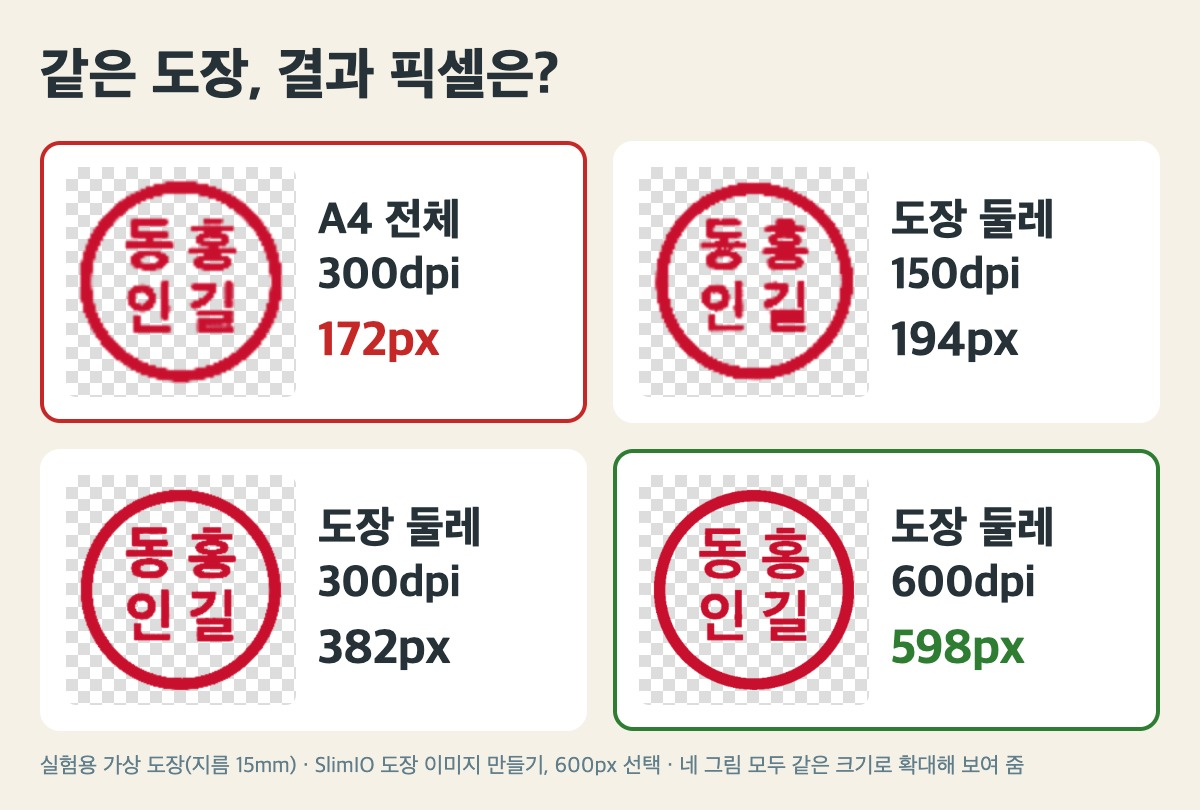
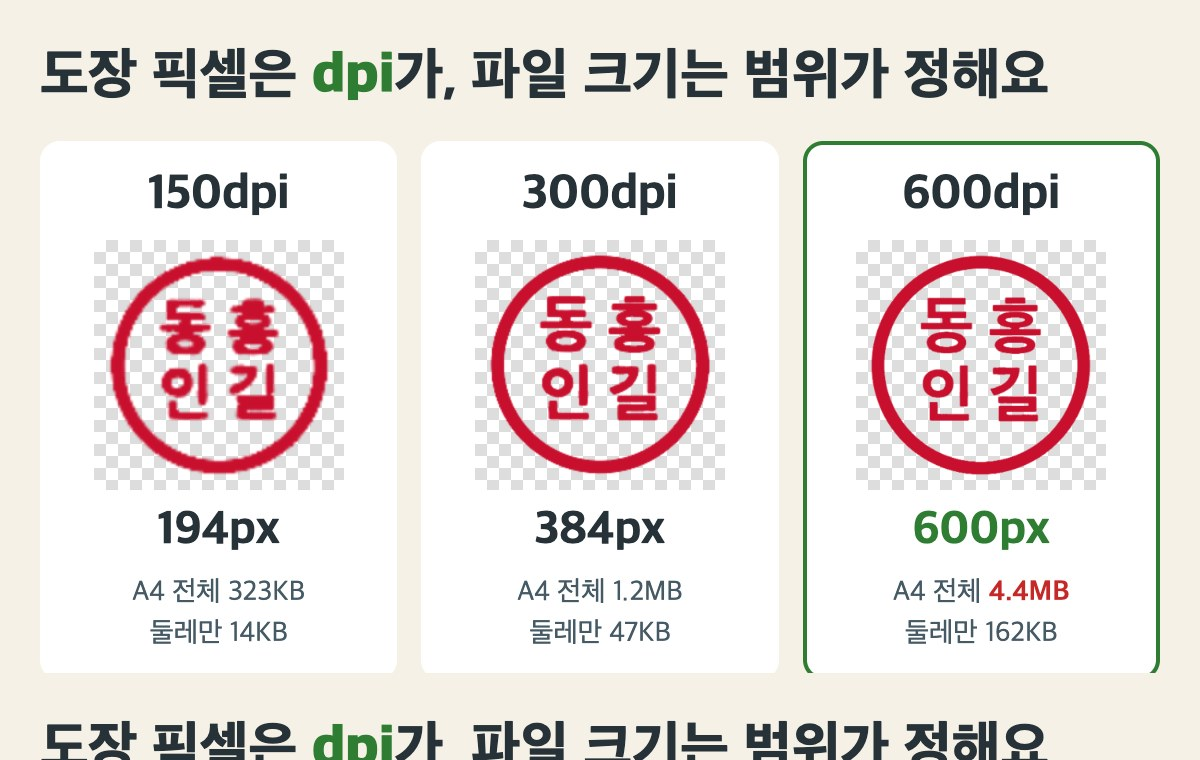
Blog #99/#100: re-measured on the live site after the 11/25 stamp-tool deploy (v=ca62f576)
#99: 1000px now 1000x999 (was 752), sizes updated, mentions the automatic photo-colour fallback.
#100: whole-A4 scans now give the same stamp pixels as stamp-only scans at the same dpi
(194/384/600 px), so the article now says dpi sets sharpness and scan area sets file size
(4.4MB vs 161.9KB at 600dpi). New title and dpi picture. Inkam law article 1 re-checked 11/25.
Schedule: #99 11/27 13:00, #100 11/28 13:00 (ondine schedules).

diff --git a/marketing/naver/100-stamp-scan.html b/marketing/naver/100-stamp-scan.html
@@ -1,6 +1,6 @@
 <!--
 네이버 블로그 글 #100 — 도장 스캔 뜨는 법: 해상도(dpi)·스캔 범위·컬러/흑백, 스캐너가 없을 때 휴대폰 스캔, 스캔본 배경 지우기와 문서에 넣기 (blog.naver.com/todayz777)
-제목: 도장 스캔 뜨는 법: 300·600dpi 차이, A4 통째로 뜨면 흐린 이유, 컬러로 떠야 하는 까닭 (휴대폰 스캔까지)
+제목: 도장 스캔 뜨는 법: 300·600dpi 차이, A4 통째로 vs 도장 둘레만 실험, 컬러로 떠야 하는 까닭 (휴대폰 스캔까지)
 태그: 도장스캔, 도장스캔뜨기, 도장스캔본뜨는법, 도장스캔본, 도장스캔해서넣는법, 도장스캔후첨부방법, 도장스캔하는법, 인감스캔하는법, 스캔해상도300600차이, 휴대폰스캔하기
 근거: (모두 2026-11-24 curl로 원문 읽음, 원문 텍스트: scratchpad blog99/100/src/)
  · Apple 지원 「iPhone 또는 iPad에서 문서를 스캔하는 방법」(support.apple.com/ko-kr/108963 — 옛 HT210336이 여기로 옴) — 메모 앱: "첨부 버튼을 탭한 다음 '문서 스캔'을 탭합니다", "iOS 26에서는 플래시나 이미지 필터와 같은 옵션을 선택할 수도 있습니다", "모서리를 드래그하여 스캔본 크기를 페이지에 맞춰 조절하고 '스캔 항목 유지'를 탭합니다" / 파일 앱: "더 보기 버튼을 탭합니다", "'문서 스캔'을 탭합니다", "위치를 선택한 다음 '저장'을 탭합니다". 저장 형식(JPG/PDF)은 이 문서에 없음 → 글에 '안내에 적혀 있지 않아요'
@@ -10,30 +10,30 @@
  · Microsoft 지원 「텍스트 줄 바꿈 및 Word 그림 이동」(support.microsoft.com/ko-kr/word/wrap-text-and-move-pictures-in-word) — "레이아웃 옵션", "텍스트 앞" (한 줄만 씀)
  · Google 드라이브 고객센터 「Google Drive로 문서 스캔하기」(support.google.com/drive/answer/3145835?hl=ko, Android·iPhone 판 각각) — Android "오른쪽 하단에서 카메라를 탭", iPhone "추가를 탭한 다음 '스캔' 또는 카메라 아이콘", "색상 조정 또는 회색 톤 이미지 만들기: 필터를 탭합니다", Android만 "스캔한 서류를 특정 형식으로 저장하려면 .pdf 또는 .jpg를 선택합니다"(iPhone 판엔 형식 선택 문장 없음), "Google Drive 웹 버전에서는 이 기능을 제공하지 않습니다", AI 번역 고지 있음
  · 삼성전자서비스 「[삼성 스마트폰] 갤럭시, 카메라 촬영 시 문서 스캔 사용 방법이 궁금해요.」(samsungsvc.co.kr/solution/23374, 날짜 2026-11-02) — "문서를 비추면 테두리가 자동으로 감지되어 스캔 버튼이 나타납니다", 설정 "카메라 앱을 실행한 후 퀵 컨트롤로 진입하여 설정 … 스캔을 누른 후 문서 스캔을 활성화", "모델 및 적용된 소프트웨어, 앱 버전 등에 따라 다를 수 있습니다"
- · 인감증명법 제1조(법률 제14286호, 시행 2017.12.3.) "행정청이 현재 신고되어 있는 출원자의 인감(印鑑)을 증명함으로써" — 이 문구는 #97이 11/21 law.go.kr에서 확인한 것. 11/24에는 법령 머리글(시행일·법률 번호)만 다시 확인했고 본문은 스크립트로 불러와져 못 읽음 → 메인 세션 재확인 필요. 형법 제239조①(#95·#96·#97이 11/21 확인)
- · 도구 화면 문구는 실제 pdfslimio.com/ko/stamp-image.html(11/24 curl, 배포된 stamp-image.js가 저장소와 같음 확인): 탭 '📷 도장 사진', '도장 찍은 사진 고르기', 인주 색 '선명한 빨강 — 빨간 인주만 남기기'·'사진 색 그대로'·'검은색', "선명한 빨강을 고르면 빨간 도장 주변의 인쇄 글씨, 펜 선, 그림자도 같이 지워져요.", 크기 '600px — 인쇄해도 선명'·'1000px — 크게', '도장 이미지 만들기', '↓ 도장 다운로드 (PNG)', '🔴 이 도장을 PDF에 찍기 →', 파일 고르기 accept="image/*"(PDF는 못 넣음). 작업 크기 긴 변 1600px·결과는 최대 2배(stamp-image.js MAX_SIDE·sized())
+ · 인감증명법 제1조(법률 제14286호, 시행 2017.12.3.) "행정청이 현재 신고되어 있는 출원자의 인감(印鑑)을 증명함으로써" — 이 문구는 #97이 11/21 law.go.kr에서 확인한 것. 11/25 law.go.kr 본문 다시 읽음: 제1조 「이 법은 행정청이 현재 신고되어 있는 출원자의 인감(印鑑)을 증명함으로써 국민의 편의를 도모함을 목적으로 한다.」 그대로 맞음. 형법 제239조①(#95·#96·#97이 11/21 확인)
+ · 도구 화면 문구는 실제 pdfslimio.com/ko/stamp-image.html(11/24 curl, 배포된 stamp-image.js가 저장소와 같음 확인): 탭 '📷 도장 사진', '도장 찍은 사진 고르기', 인주 색 '선명한 빨강 — 빨간 인주만 남기기'·'사진 색 그대로'·'검은색', "선명한 빨강을 고르면 빨간 도장 주변의 인쇄 글씨, 펜 선, 그림자도 같이 지워져요.", 크기 '600px — 인쇄해도 선명'·'1000px — 크게', '도장 이미지 만들기', '↓ 도장 다운로드 (PNG)', '🔴 이 도장을 PDF에 찍기 →', 파일 고르기 accept="image/*"(PDF는 못 넣음). 작업 크기 긴 변 1600px로 도장을 찾은 뒤 원본에서 둘레를 다시 잘라 처리(11/25 배포 7a3c093), 결과는 최대 2배(stamp-image.js MAX_SIDE·sized())
  확인 못 한 것(글에 그렇게 씀): 도장 스캔에 맞는 dpi를 정한 공식 기준(찾지 못함 — 숫자는 25.4mm=1인치 계산과 실험으로만), 아이폰 메모·파일 앱 스캔본의 저장 형식, Google Drive iPhone 판의 JPG 저장, 갤럭시 문서 스캔의 저장 형식·해상도, OneDrive 스캔의 저장 형식
-수요: 네이버 자동완성(ac.py, 2026-11-24) '도장 스캔' → 도장 스캔 뜨기·스캔해서 넣는법·스캔본 뜨는법·스캔본·스캔 후 첨부 방법·스캔하기·스캔 방법·스캔 하는 법·스캔 뜨는 법, '인감 스캔' → 인감 스캔하는법·인감 스캔 하는 방법, '스캔 해상도' → 300 600 차이·높이는 법·차이·낮추는법·설정 방법, '스캔 dpi' → 스캔dpi비교, '휴대폰 스캔' → 휴대폰 스캔하기·방법·pdf·뜨는법·스캔용량, '아이폰 스캔'·'갤럭시 스캔'(스캔기능·pdf·화질). top.py(11/24) '도장 스캔': chady1·altptmzl3·edenheyum_·newojh1·info_writer·yirini — 모두 전자도장 앱·사이트로 '만드는' 글, '도장 스캔해서 넣는법': 우리 #12가 1위, '도장 스캔 후 첨부 방법': phoneharu·notei0410·kjjjay·okl112·ppsun717(서류 전체 휴대폰 스캔). 상위 글 2편(chady1·altptmzl3) 읽음 — 스캔 해상도·스캔 범위·컬러/흑백을 다룬 글 없음, 공식 도움말 인용 없음, 한 글은 관공서·은행·부동산 위임장에도 앱 도장을 쓰는 것처럼 소개 → 우리 글 차별점: dpi 계산·A4 통째 vs 도장 둘레 실험·컬러 이유·공식 스캔 메뉴·인감 안 됨
+수요: 네이버 자동완성(ac.py, 2026-11-24) '도장 스캔' → 도장 스캔 뜨기·스캔해서 넣는법·스캔본 뜨는법·스캔본·스캔 후 첨부 방법·스캔하기·스캔 방법·스캔 하는 법·스캔 뜨는 법, '인감 스캔' → 인감 스캔하는법·인감 스캔 하는 방법, '스캔 해상도' → 300 600 차이·높이는 법·차이·낮추는법·설정 방법, '스캔 dpi' → 스캔dpi비교, '휴대폰 스캔' → 휴대폰 스캔하기·방법·pdf·뜨는법·스캔용량, '아이폰 스캔'·'갤럭시 스캔'(스캔기능·pdf·화질). top.py(11/24) '도장 스캔': chady1·altptmzl3·edenheyum_·newojh1·info_writer·yirini — 모두 전자도장 앱·사이트로 '만드는' 글, '도장 스캔해서 넣는법': 우리 #12가 1위, '도장 스캔 후 첨부 방법': phoneharu·notei0410·kjjjay·okl112·ppsun717(서류 전체 휴대폰 스캔). 상위 글 2편(chady1·altptmzl3) 읽음 — 스캔 해상도·스캔 범위·컬러/흑백을 다룬 글 없음, 공식 도움말 인용 없음, 한 글은 관공서·은행·부동산 위임장에도 앱 도장을 쓰는 것처럼 소개 → 우리 글 차별점: dpi 계산·A4 통째 vs 도장 둘레 실험(픽셀은 dpi, 용량은 범위)·컬러 이유·공식 스캔 메뉴·인감 안 됨
 겹침 점검: #12(PDF에 도장 넣기·흰 배경 지우는 이유·사진 찍는 요령·효력 — 이 글은 스캔본 품질만, PDF 순서·효력 설명 없음, 링크만), #17(서명 이미지 — 겹치는 내용 없음), #95(엑셀)·#96(한글 넣기 — 링크만)·#97(전자도장·인감 법 조문 — 이 글은 인감 한 단락만, 문장 새로 씀), 사이트 가이드 pdf-stamp-seal('300dpi 스캔도 괜찮아요' 한 줄뿐 — 이 글은 계산·실험으로 새로). overlap.py 결과는 아래 '겹침 수치'
-실험: (2026-11-24 18:53 KST, scratchpad blog99/100/mk.mjs·run.mjs·out/results.json) 실험용으로 만든 가상 스캔본 — 누런 흰색 종이 #f8f6f0, '위 임 장 (가상 예시)'·'※ 실험용으로 만든 가상 서류 · 실제 서식 아님'·표·'위임인 성명 홍 길 동 (인)' 검정 인쇄, (인) 위에 지름 15mm 빨간 원형 '홍길동인'(오른쪽 줄부터), 스캐너 잡음. 입력: A4 전체 150dpi 1240×1754 323.5KB / 300dpi 2480×3508 1187.7KB / 600dpi 4961×7016 4520.3KB, 도장 둘레 50×38mm 150dpi 295×224 14.0KB / 300dpi 591×449 46.7KB / 600dpi 1181×898 161.9KB, 둘레 300dpi 회색조(흑백 스캔 흉내) 44.1KB. 실제 https://pdfslimio.com/ko/stamp-image.html?notrack, playwright-core·Chrome headless, 400×860, 매번 새 창, 페이지 오류 0:
-  A4 150dpi·빨강·600 → 176×174 27.3KB / A4 300dpi·빨강·600 → 172×174 22.5KB(1000을 골라도 172×174 22.5KB 같은 파일) / A4 600dpi·빨강·600 → 172×174 17.2KB / 둘레 150dpi → 194×194 28.1KB / 둘레 300dpi → 382×382 55.4KB / 둘레 600dpi → 598×600 84.9KB, 1000 → 762×764 114.6KB / 회색조·검은색·600 → 600×300 46.1KB(인쇄된 '홍 길 동 (인)'까지 남음). 빨강 결과는 모두 네 모서리 알파 0, 어두운 픽셀 0(도장 밑 '(인)' 인쇄 지워짐). 매번 '남은 횟수: 19 / 20'. 1단 추론: 도구가 긴 변 1600px로 줄여 작업하고 결과를 최대 2배로만 키워서 A4 통째 스캔은 dpi와 상관없이 약 172px
-이미지: stamp-scan-hero.jpg(새, 1200×630 89.4KB — 청회색 #263238 바탕, '스캐너 · 휴대폰 스캔' / '도장 스캔 뜨는 법' / '도장만 좁게 · 600dpi / 흑백 말고 컬러로', 오른쪽 스캐너 유리판 모양 위 실험 결과 598×600 PNG, '실험용 가상 도장 · 투명 PNG 결과(체크무늬 = 투명)'), stamp-scan-dpi-ko.jpg(새, 1200×810 170.4KB — '같은 도장, 결과 픽셀은?' A4 전체 300dpi 172px(빨간 테두리) / 도장 둘레 150dpi 194px / 300dpi 382px / 600dpi 598px(초록 테두리), 네 결과를 같은 크기로 확대), stamp-scan-color-ko.jpg(새, 1200×756 139.1KB — '컬러로 떠야 인주만 남아요' 컬러 스캔 → 도장만 남음 / 흑백 스캔 → 글씨도 남음, 실험 입력과 결과). 큰 글자 44px 이상(제목 56·92px), 아래 설명 줄만 22px. 얼굴·로고·실제 앱 화면 없음. 그림 HTML: scratchpad blog99/100/cards
-예약: 미정 — 사장님 '예약해' 뒤 (제안: 2026-11-28 13:00)
+실험: (2026-11-25 14:36 KST 다시 잼 — 11/25 배포된 도구 stamp-image.js?v=ca62f576. 11/24 18:53 첫 측정은 옛 도구라 A4 전체가 172px였음, scratchpad blog99/100/old1124. 스크립트 mk.mjs·run.mjs·run-extra.mjs, 결과 out/results-main.json·results-extra.json) 실험용으로 만든 가상 스캔본 — 누런 흰색 종이 #f8f6f0, '위 임 장 (가상 예시)'·'※ 실험용으로 만든 가상 서류 · 실제 서식 아님'·표·'위임인 성명 홍 길 동 (인)' 검정 인쇄, (인) 위에 지름 15mm 빨간 원형 '홍길동인'(오른쪽 줄부터), 스캐너 잡음. 입력: A4 전체 150dpi 1240×1754 323.5KB / 300dpi 2480×3508 1187.7KB / 600dpi 4961×7016 4520.3KB, 도장 둘레 50×38mm 150dpi 295×224 14.0KB / 300dpi 591×449 46.7KB / 600dpi 1181×898 161.9KB, 둘레 300dpi 회색조(흑백 스캔 흉내) 44.1KB. 실제 https://pdfslimio.com/ko/stamp-image.html?notrack, playwright-core·Chrome headless, 400×860, 매번 새 창, 페이지 오류 0:
+  A4 150dpi·빨강·600 → 194×194 31.1KB(1000도 같은 파일) / A4 300dpi·빨강·600 → 384×384 69.9KB(1000을 골라도 384×384 같은 파일) / A4 600dpi·빨강·600 → 600×600 98.9KB, 1000 → 764×764 141.8KB / 둘레 150dpi → 194×194 28.1KB / 둘레 300dpi → 382×382 55.4KB / 둘레 600dpi → 598×600 84.9KB, 1000 → 762×764 114.6KB / 회색조·검은색·600 → 600×300 46.1KB(인쇄된 '홍 길 동 (인)'까지 남음). 빨강 결과는 모두 네 모서리 알파 0, 어두운 픽셀 0(도장 밑 '(인)' 인쇄 지워짐). 매번 '남은 횟수: 19 / 20'. 1단 추론: 15mm 도장 속 점 수는 dpi로 정해지고(150→약 89, 300→약 177, 600→약 354픽셀), 도구는 원본에서 둘레를 다시 잘라 최대 2배까지 키우므로 같은 dpi면 범위와 상관없이 결과가 같음. 600dpi A4÷둘레 = 4520.3÷161.9 ≈ 27.9배
+이미지: stamp-scan-hero.jpg(새, 1200×630 89.4KB — 청회색 #263238 바탕, '스캐너 · 휴대폰 스캔' / '도장 스캔 뜨는 법' / '도장만 좁게 · 600dpi / 흑백 말고 컬러로', 오른쪽 스캐너 유리판 모양 위 실험 결과 598×600 PNG, '실험용 가상 도장 · 투명 PNG 결과(체크무늬 = 투명)'), stamp-scan-dpi-ko.jpg(11/25 새로 그림, 1200×760 129.7KB — '도장 픽셀은 dpi가, 파일 크기는 범위가 정해요' 150dpi 194px / 300dpi 384px / 600dpi 600px(초록 테두리), 각 칸 아래 'A4 전체 323KB·1.2MB·4.4MB / 둘레만 14KB·47KB·162KB', 결과는 A4 전체 스캔 것을 같은 크기로 확대), stamp-scan-color-ko.jpg(새, 1200×756 139.1KB — '컬러로 떠야 인주만 남아요' 컬러 스캔 → 도장만 남음 / 흑백 스캔 → 글씨도 남음, 실험 입력과 결과). 큰 글자 44px 이상(제목 56·92px), 아래 설명 줄만 22px. 얼굴·로고·실제 앱 화면 없음. 그림 HTML: scratchpad blog99/100/cards
+예약: 2026-11-28(토) 13:00 — 사장님이 ondine 창에서 예약 승인(11/25), 예약은 ondine이 sched_run으로
 붙이는 법: IMG 표시 자리에서 끊어 붙이고 편집기 '사진'으로 올림. IMG 바로 앞에는 소제목(h2)을 두지 않음. 그림 버튼·CTA 상자 없이 본문 글자 링크 3개: SlimIO(pdfslimio.com) 도장 이미지 만들기(https://pdfslimio.com/ko/stamp-image.html), #96 한글 도장 넣기(https://blog.naver.com/todayz777/224485936325), #12 PDF에 도장·직인 넣는 법(https://blog.naver.com/todayz777/224450518161)
-겹침 수치: overlap.py(2026-11-24): 12단어 0%(공통 0개/1271), 8단어 최대 0.2% #17·0.1% #97 — 둘 다 출처 줄의 Microsoft 문서 제목 「텍스트 줄 바꿈 및 Word 그림 이동」뿐. #12·#95·#96·가이드 pdf-stamp-seal과는 8단어 0%(첫 판에서 겹친 #95 도구 소개·인감 문장, #96 링크 문장·버튼 순서, #97 인감증명법 제1조 문장, 티스토리 #17 출처 끝말은 고쳐 씀). 같은 날 쓰는 #99 워드 원고(워크트리 파일)와 따로 비교: 12단어 0%, 8단어 0%
+겹침 수치: overlap.py(2026-11-25 숫자 고친 뒤 다시 돌림 — 결과 같음; 처음 2026-11-24): 12단어 0%(공통 0개/1271), 8단어 최대 0.2% #17·0.1% #97 — 둘 다 출처 줄의 Microsoft 문서 제목 「텍스트 줄 바꿈 및 Word 그림 이동」뿐. #12·#95·#96·가이드 pdf-stamp-seal과는 8단어 0%(첫 판에서 겹친 #95 도구 소개·인감 문장, #96 링크 문장·버튼 순서, #97 인감증명법 제1조 문장, 티스토리 #17 출처 끝말은 고쳐 씀). 같은 날 쓰는 #99 워드 원고(워크트리 파일)와 따로 비교: 12단어 0%, 8단어 0%
 -->
 
 <!--IMG:stamp-scan-hero.jpg-->
 
 <p>"도장 찍어서 스캔본으로 보내 주세요." 복합기로 한 장 떠서 문서에 넣었더니, 도장이 <b>뿌옇게</b> 번져 보였나요? 😅</p>
 
-<p>대개 해상도보다 스캔한 범위가 문제예요. 그래서 가상 도장 스캔본을 해상도별로 만들어 실제 도구에 넣어 봤어요.</p>
+<p>해상도 탓일까요, 스캔 범위 탓일까요? 가상 도장 스캔본을 해상도별·범위별로 만들어 실제 도구에 넣어 봤어요.</p>
 
 <p>스캔 메뉴는 Apple·Google·Microsoft·삼성 공식 안내를 11월 24일에 읽고 그대로 옮겼어요.</p>
 
 <p><b>⏱ 3줄 요약</b><br>
-1⃣ A4를 통째로 뜨지 말고 <b>도장 둘레만</b> 좁게 떠요<br>
-2⃣ 해상도는 300dpi 이상, 크게 쓸 거면 <b>600dpi</b>예요<br>
+1⃣ 선명함은 해상도가 정해요. 300dpi 이상, 크게 쓸 거면 <b>600dpi</b><br>
+2⃣ 파일 크기는 범위가 정해요. <b>도장 둘레만</b> 뜨면 확 가벼워요<br>
 3⃣ 색 설정은 흑백 말고 <b>컬러</b>, 저장은 JPG나 PNG로 해요</p>
 
 <h2>📐 dpi, 도장에는 얼마나 필요할까</h2>
@@ -63,27 +63,27 @@
 
 <table>
   <tr><th>넣은 스캔본</th><th>파일 크기</th><th>나온 도장 PNG</th></tr>
-  <tr><td>A4 전체 150dpi</td><td>323.5KB</td><td>176×174, 27.3KB</td></tr>
-  <tr><td>A4 전체 300dpi</td><td>1.2MB</td><td>172×174, 22.5KB</td></tr>
-  <tr><td>A4 전체 600dpi</td><td>4.4MB</td><td>172×174, 17.2KB</td></tr>
+  <tr><td>A4 전체 150dpi</td><td>323.5KB</td><td>194×194, 31.1KB</td></tr>
+  <tr><td>A4 전체 300dpi</td><td>1.2MB</td><td>384×384, 69.9KB</td></tr>
+  <tr><td>A4 전체 600dpi</td><td>4.4MB</td><td>600×600, 98.9KB</td></tr>
   <tr><td>도장 둘레 150dpi</td><td>14.0KB</td><td>194×194, 28.1KB</td></tr>
   <tr><td>도장 둘레 300dpi</td><td>46.7KB</td><td>382×382, 55.4KB</td></tr>
   <tr><td>도장 둘레 600dpi</td><td>161.9KB</td><td>598×600, 84.9KB</td></tr>
 </table>
 
-<p>A4 전체는 600dpi로 떠도 결과가 <b>172×174</b>에 머물렀어요. 4.4MB를 올렸는데 300dpi 때와 같은 크기였어요.</p>
+<p>같은 dpi끼리 보면 A4 전체와 도장 둘레의 결과가 <b>거의 같았어요</b>. 300dpi는 384와 382, 600dpi는 600과 598픽셀이었어요.</p>
 
 <!--IMG:stamp-scan-dpi-ko.jpg-->
 
-<p>이유는 도구가 일하는 방식에 있어요. 이 도구는 사진 긴 변을 <b>1600픽셀</b>까지 줄인 뒤 처리하고, 결과는 그 도장 크기의 2배까지만 키워요.</p>
+<p>도장에 담기는 점의 수는 dpi가 정하기 때문이에요. 범위를 넓힌다고 도장 속 점이 늘거나 줄지 않아요. 이 도구도 도장을 찾은 뒤 그 둘레를 <b>원본에서 다시 잘라</b> 처리해요.</p>
 
-<p>A4 한 장을 1600픽셀로 줄이면 15mm 도장은 80픽셀 남짓이 돼요. 그래서 몇 dpi로 떠도 비슷하게 작아요.</p>
+<p>차이는 파일 크기예요. 600dpi로 A4를 통째로 뜨니 4.4MB였는데, 도장 둘레만 뜨니 <b>161.9KB</b>였어요. 같은 도장인데 약 28분의 1이에요.</p>
 
-<p>도장 둘레만 뜨면 이야기가 달라요. 종이 대부분이 빠지니 도장이 줄지 않고, 600dpi에서는 고른 600px을 <b>거의 그대로</b> 채웠어요.</p>
+<p>'1000px — 크게'를 골라 봤더니 dpi 차이가 더 드러났어요. 600dpi는 A4 전체 764×764, 둘레 762×764가 나왔어요.</p>
 
-<p>둘레 600dpi에서 '1000px — 크게'를 고르니 762×764(114.6KB)였어요. A4 전체 300dpi는 1000px을 골라도 172×174 그대로였어요.</p>
+<p>300dpi A4 전체는 1000px을 골라도 <b>384×384</b>에서 멈췄어요. 도구가 원래 점의 2배까지만 키워서예요.</p>
 
-<p>150dpi는 둘레만 떠도 그림처럼 <b>글자 가장자리</b>가 흐렸어요. 원래 점이 모자란 걸 키운 거라서예요.</p>
+<p>150dpi는 어느 쪽이든 194픽셀이라 <b>글자 가장자리</b>가 흐렸어요. 원래 점이 모자란 걸 키운 거라서예요.</p>
 
 <h2>✂ 스캐너로 둘레만 뜨는 법</h2>
 
@@ -96,7 +96,7 @@
   <li>포맷은 PDF 말고 그림 형식(JPEG 등)으로 고르고 스캔해요</li>
 </ol>
 
-<p>미리보기에서 범위를 도장 쪽으로 좁히는 방법은 스캐너마다 달라요. 범위를 못 줄이면 A4로 뜬 뒤 사진 앱에서 <b>도장 둘레만 잘라도</b> 같은 효과예요.</p>
+<p>미리보기에서 범위를 도장 쪽으로 좁히는 방법은 스캐너마다 달라요. 범위를 못 줄이면 A4로 뜬 뒤 사진 앱에서 <b>도장 둘레만 잘라도</b> 파일이 가벼워져요.</p>
 
 <p>🪟 Windows는 'Windows 스캔' 앱을 쓰라고 Microsoft가 안내해요. 파일 형식은 <b>JPEG, PNG, TIFF, 비트맵</b> 중에서 골라요. 저장 위치를 안 정하면 사용자 폴더의 '그림/스캔'으로 가요.</p>
 
@@ -135,7 +135,7 @@
 
 <p>Microsoft Lens를 쓰던 분은 알아 두세요. Microsoft는 2026년 1월 9일부터 Lens 사용을 중지했어요. 새 스캔은 <b>3월 9일</b>까지만 된다는 안내예요. 대안으로 OneDrive 앱을 권해요.</p>
 
-<p>⚠ 이 기능들은 <b>종이 한 장</b>을 기준으로 자르고 펴 줘요. A4에 찍힌 도장을 그대로 스캔하면 앞의 실험처럼 도장이 작게 남아요.</p>
+<p>⚠ 이 기능들은 <b>종이 한 장</b>을 기준으로 자르고 펴 줘요. A4에 찍힌 도장을 그대로 스캔하면 종이 한 장 크기의 파일이 돼요. 저장할 때 해상도를 얼마로 하는지는 공식 안내에 없었어요.</p>
 
 <p>스캔 뒤 모서리를 끌어 범위를 도장 둘레로 줄이세요. Apple 안내도 모서리를 드래그해 크기를 맞춘 뒤 <b>'스캔 항목 유지'</b>를 누르라고 해요.</p>
 
@@ -176,7 +176,7 @@
 
 <p>받은 서류가 PDF라면 이 블로그의 <a href="https://blog.naver.com/todayz777/224450518161">'PDF에 도장·직인 넣는 법' 글</a>을 보세요. 찍는 순서가 있어요.</p>
 
-<p>📦 "도장 스캔본만 보내 달라"는 곳이면 PNG를 바로 첨부하면 돼요. 실험 결과는 모두 <b>120KB 아래</b>라 메일이나 업로드 칸에 부담이 없어요.</p>
+<p>📦 "도장 스캔본만 보내 달라"는 곳이면 PNG를 바로 첨부하면 돼요. 실험 결과는 모두 <b>150KB 아래</b>라 메일이나 업로드 칸에 부담이 없어요.</p>
 
 <p>다만 업로드 칸이 JPG만 받으면 PNG는 안 올라가요. 그럴 땐 처음 뜬 JPG 스캔본을 둘레만 잘라 내는 편이 나아요.</p>
 
@@ -195,14 +195,14 @@
 <h2>🙋 자주 묻는 것</h2>
 
 <p><b>Q. 300dpi와 600dpi, 뭘 골라야 하나요?</b><br>
-👉 도장 둘레만 뜬다면 300dpi로도 382픽셀이 나왔어요. 1.5cm로 넣으면 1인치에 약 650점꼴이에요. 크게 인쇄하거나 1000px로 받고 싶다면 <b>600dpi</b>를 고르세요.</p>
+👉 300dpi로도 380픽셀대가 나왔어요(A4 전체 384, 둘레 382). 1.5cm로 넣으면 1인치에 약 650점꼴이에요. 크게 인쇄하거나 1000px로 받고 싶다면 <b>600dpi</b>를 고르세요.</p>
 
 <p><b>Q. 스캔본 용량이 너무 커요.</b><br>
-👉 대부분 A4 전체를 떠서예요. 실험에서 A4 600dpi는 4.4MB였지만, 같은 600dpi로 도장 둘레만 뜨니 <b>161.9KB</b>였어요.</p>
+👉 대부분 A4 전체를 떠서예요. 실험에서 A4 600dpi는 4.4MB였지만, 같은 600dpi로 도장 둘레만 뜨니 <b>161.9KB</b>였어요. 도장 픽셀은 둘이 같았어요.</p>
 
 <p><b>Q. 해상도를 높이면 흐린 도장이 선명해지나요?</b><br>
 👉 아니요. 스캔은 종이에 찍힌 만큼만 담아요. 인주가 번졌거나 흐리면 <b>새로 찍어서</b> 다시 뜨는 게 빨라요.</p>
 
-<p>정리하면 도장 둘레만, 300~600dpi로, 컬러로 뜨면 돼요. 그다음 배경만 지우면 어느 문서에나 깔끔하게 얹혀요. 🍀</p>
+<p>정리하면 300~600dpi, 컬러로 뜨고 범위는 도장 둘레만 좁히면 돼요. 그다음 배경만 지우면 어느 문서에나 깔끔하게 얹혀요. 🍀</p>
 
 <p>출처: Apple 지원 「iPhone 또는 iPad에서 문서를 스캔하는 방법」, Apple Mac 사용 설명서 「Mac에서 스캐너를 사용하여 이미지 또는 문서 스캔하기」, Microsoft 지원 「Windows에서 스캐너 설치 및 사용」·「Microsoft Lens 사용 중지」·「텍스트 줄 바꿈 및 Word 그림 이동」, Google 드라이브 고객센터 「Google Drive로 문서 스캔하기」, 삼성전자서비스 「갤럭시, 카메라 촬영 시 문서 스캔 사용 방법」(2026년 11월 2일), 인감증명법 제1조·형법 제239조(국가법령정보센터). 2026년 11월 24일에 읽은 내용이고, 휴대폰 기종·앱 버전마다 메뉴 이름이 조금씩 달라요. 실험에 쓴 위임장과 도장은 모두 가상 예시예요.</p>

diff --git a/marketing/naver/99-word-stamp.html b/marketing/naver/99-word-stamp.html
@@ -14,14 +14,14 @@
   ⑨ 「그림 삽입」(…/ko-kr/word/training/insert-pictures) — "PC의 그림을 보려면이 장치그림>삽입>을 선택합니다."(삽입 > 그림 > 이 장치), "\"모바일 장치에서 사진 삽입\" 기능을 단계적으로 중단 … 2025년 8월 22일부터 모든 Office 앱에서 비활성화"
   ⑩ 「Office 데스크톱 앱에서 PDF 또는 XPS로 저장하거나 변환」(…/ko-kr/office/collab-files/save-or-convert-to-pdf-or-xps-in-office-desktop-apps) Word 부분 — "파일>복사본 저장", "파일>다른 이름으로 저장 또는 복사본 저장", "찾아 보기", "드롭다운 목록에서 PDF", "추가 옵션>옵션", "페이지 범위", "암호로 문서 암호화 암호를 알고 있는 사용자만 PDF를 열 수 있도록", 웹 "파일을 선택하고 인쇄 … PDF로 저장"
   ⑪ 형법(법률 제22007호, 2026. 9. 29. 일부개정, 시행 2026. 10. 2.) 제239조 ① "행사할 목적으로 타인의 인장, 서명, 기명 또는 기호를 위조 또는 부정사용한 자는 3년 이하의 징역에 처한다." — law.go.kr 2026-11-24 확인
-  ⑫ 도구 화면 문구: 실제 https://pdfslimio.com/ko/stamp-image.html (2026-11-24 curl, 저장소 public/js/stamp-image.js와 배포본 같음) — 탭 '📷 도장 사진'·'🔴 이름 도장 만들기', '도장 찍은 사진 고르기', 인주 색 '선명한 빨강 — 빨간 인주만 남기기'·'사진 색 그대로'·'검은색', 크기 '300px — 작은 파일'·'600px — 인쇄해도 선명'·'1000px — 크게', '도장 이미지 만들기', '↓ 도장 다운로드 (PNG)', 안내 "이름 도장은 지름 약 1.5cm"
+  ⑫ 도구 화면 문구: 실제 https://pdfslimio.com/ko/stamp-image.html (2026-11-24 curl, 11/25 배포 뒤 다시 확인 — 빨강 없으면 사진 색으로 바꾸고 결과 밑에 알림: "빨간 인주가 보이지 않아서 사진 속 도장 색 그대로 만들었어요.") — 탭 '📷 도장 사진'·'🔴 이름 도장 만들기', '도장 찍은 사진 고르기', 인주 색 '선명한 빨강 — 빨간 인주만 남기기'·'사진 색 그대로'·'검은색', 크기 '300px — 작은 파일'·'600px — 인쇄해도 선명'·'1000px — 크게', '도장 이미지 만들기', '↓ 도장 다운로드 (PNG)', 안내 "이름 도장은 지름 약 1.5cm"
   확인 못 한 것: 한국어 워드 실제 화면의 정확한 이름('페이지에서 위치 수정'·'텍스트로 이동'은 도움말 번역 그대로, 화면은 다를 수 있음), 크기 칸 단위(cm 여부), 기본 220ppi 압축이 저장할 때 도장 PNG에 실제로 몇 픽셀로 적용되는지(도움말엔 기본값만 있음 → 계산만 '약 130픽셀'로 적고 '수 있어요'로 씀), 휴대폰 Word 앱의 그림 배치 메뉴, 웹용 Word의 배경 제거 가능 여부. 워드는 이 컴퓨터에서 열지 않음(지시) → 워드 화면 그림 없음
 수요: 네이버 자동완성(ac.py, 2026-11-24) '워드 도장' → 워드 도장삽입·넣는 방법·그림 넣는법·인 넣는법·png 만드는 법, '워드 도장 png' → 만드는 법·png로 만드는 법, '워드 직인' → 넣는법, '워드 인감' → 넣는법, '워드 그림' → 삽입·텍스트·움직이는법·맞추는법·해상도·크기·뒤로넣는법, '워드 그림 배경' → 없애는법·배경색 없애는법, '워드 서명' → 넣기·넣기 투명·삽입·서명란. top.py(11/24) '워드 도장': sonkkeutlab·info_writer·malzangwc·edenheyum_·suesue0307·soilee_ / '워드 도장 넣는 방법': info_writer·edenheyum_·malzangwc·soilee_·msh6998_·viva5186 / '워드 직인 넣는법': info_writer·sonkkeutlab·msh6998_·todayz777(#12 4위)·ictsoo·geebeecokr / '워드 도장 png 만드는 법': info_writer·sonkkeutlab·edenheyum_·malzangwc·soilee_·saminseo1. 읽은 글(info_writer·malzangwc·msh6998_): 도장 생성 사이트 소개가 대부분, 워드는 '텍스트 앞' 한 줄이거나 원 도형에 그림 채우기 방식. 워드가 새 그림을 '텍스트 줄 안'으로 넣어 글자가 밀리는 이유, 위치 고정·앵커 잠금, 기본 해상도 220ppi, 도형 채우기에선 투명 색 설정이 안 된다는 점, 웹용 Word 제한, 휴대폰 사진 삽입 기능 중단, PDF 암호 옵션 — 공식 근거로 다룬 글 없음 → 우리 글의 차별점
 겹침 점검: #12 PDF 도장(PDF 찍는 순서·효력 — 링크만), #17 서명 이미지(워드 '레이아웃 옵션 → 텍스트 앞' 한 문단 — 이 글은 텍스트 줄 안/앞/뒤 비교·위치 고정·앵커로 넓힘, 링크만), #95 엑셀(투명한 색 설정·배경 제거 표·투명도·PDF Standard — 이 글은 워드 쪽 차이만: 도형 채우기 불가·인쇄 시 용지 색·웹용 Word 불가, 배경 제거는 짧게), #96 한글(글 앞으로/뒤로·mm·사진 편집), #97 전자도장(법 조문·이름 도장 실험 — 이 글은 사진 탭 실험만), 사이트 가이드 pdf-stamp-seal. overlap.py 결과는 아래 '겹침 수치'
-겹침 수치: overlap.py(2026-11-24, 본 저장소 naver·tistory·가이드 전체 비교) 12단어 0%(공통 0개, grams 1550) / 8단어 최대 0.1% — #17·#97('텍스트 줄 바꿈 및 Word 그림 이동' 도움말 제목), #95('Office 데스크톱 앱에서 PDF 또는 XPS로 저장하거나 변환' 제목)만. #12·#96·가이드 pdf-stamp-seal은 8단어도 0%. 같은 날 쓰는 #100 초안(워크트리)과는 12단어 0%, 8단어 0.1%(같은 도움말 제목). 처음 판에서 겹친 #95 문장(모서리 투명·그림으로 저장·사진 고르기 순서·서명 글 안내)과 #97 문장(도구 소개·1.5cm 안내)은 고쳐 씀
-실험: (2026-11-24 18:51 KST, 실제 https://pdfslimio.com/ko/stamp-image.html?notrack, playwright-core + Chrome headless, 화면 400×860, scratchpad blog99/99/exp/mk.mjs·run.mjs·results.json, 페이지 오류 0, '오늘 남은 횟수' 20/20 → 14/20) 실험용 가상 사진 2장을 canvas로 직접 만듦: ⓐ 가상 동의서 사진 3024×4032 JPG 2,963,371바이트(2.8MB) — 누런 종이·스탠드 불빛처럼 노란 기운, 왼쪽 아래로 어둡고 왼쪽에 휴대폰 그림자, 가로로 접힌 자국, 검은 인쇄 '개인정보 수집·이용 동의서'·'(가상 예시 · 실험용 사진 · 실제 서식 아님)'·표·'동의자 성명 홍 길 동 (인)', 그 옆에 겹쳐 빨간 원형 '홍길동인'(인주 얼룩) ⓑ 같은 조명·접힌 자국의 흰 종이에 같은 도장을 크게 찍은 사진 3024×4032 JPG 2,894,293바이트(2.8MB). 결과: ⓐ 선명한 빨강·600px → '600×600px · 85.8 KB · PNG', stamp_600x600.png 87,878바이트, 네 모서리 알파 0, 불투명 22.4% 전부 빨강·검정 0, 인쇄 글씨·표 선·접힌 자국·그늘 안 남음, 다만 테두리 왼쪽에서 인쇄 글씨 '동'과 겹친 자리가 작게 비어 있음(눈으로 확인) / ⓐ 선명한 빨강·1000px → 752×752, 108.2KB(110,748바이트) — 사진 속 도장이 작아 2배까지만 키움 / ⓐ 선명한 빨강·300px → 300×300, 23.1KB(23,697바이트) / ⓐ 사진 색 그대로·600px → 600×576, 195.8KB(200,535바이트), 동의서 글씨·표까지 남음(검정 8,437 vs 빨강 6,634픽셀) / ⓑ 선명한 빨강·600px → 600×600, 58.0KB(59,368바이트), 빈틈 없음 / ⓑ 1000px → 1000×1000, 156.1KB(159,865바이트). 모두 네 모서리 투명. 계산: 220ppi에서 지름 15mm = 15÷25.4×220 ≈ 130픽셀, 600px PNG를 15mm로 넣으면 약 1,016ppi
-이미지: word-stamp-hero.jpg(새, 1200×630 76.9KB — 짙은 숲색 #1f3d2b 바탕 + 크림 #f4efe2, 'Microsoft 도움말 기준'·'워드 도장 넣는 방법'·'글자 안 밀리게 텍스트 앞 / 위치 고정하고 PDF로', 오른쪽 '동의서 (가상 예시)' 종이의 '성명 홍 길 동 (인)'에 실험 결과 PNG(ⓑ 600px)를 얹음, '가상 예시 · 설명용 그림', 워드 화면·로고 없음), word-stamp-layout-ko.jpg(새, 1200×578 94.3KB — 크림 바탕 3칸: 텍스트 줄 안 '✕ 줄이 벌어져요' / 텍스트 앞 '○ (인) 위에 얹혀요' / 텍스트 뒤 '△ 선택 어려움', '설명용으로 그린 그림 (워드 화면 아님)'), word-stamp-tool-ko.jpg(새, 1200×781 156.9KB — 가상 동의서 사진 일부 → 체크무늬 위 결과 PNG, '사진 2.8MB'·'600×600 · 85.8KB'·'인쇄 글씨 · 접힌 자국 · 그늘은 지워짐'). 중요 글자 44px 이상(부제·설명 줄만 22~30px), 짧은 줄 6줄 이하, 얼굴 없음. 그림 HTML: scratchpad blog99/99/cards
-예약: 미정 — 사장님 '예약해' 뒤 (제안: 2026-11-27 13:00)
+겹침 수치: overlap.py(2026-11-25 숫자 고친 뒤 다시 돌림 — 결과 같음; 처음 2026-11-24, 본 저장소 naver·tistory·가이드 전체 비교) 12단어 0%(공통 0개, grams 1550) / 8단어 최대 0.1% — #17·#97('텍스트 줄 바꿈 및 Word 그림 이동' 도움말 제목), #95('Office 데스크톱 앱에서 PDF 또는 XPS로 저장하거나 변환' 제목)만. #12·#96·가이드 pdf-stamp-seal은 8단어도 0%. 같은 날 쓰는 #100 초안(워크트리)과는 12단어 0%, 8단어 0.1%(같은 도움말 제목). 처음 판에서 겹친 #95 문장(모서리 투명·그림으로 저장·사진 고르기 순서·서명 글 안내)과 #97 문장(도구 소개·1.5cm 안내)은 고쳐 씀
+실험: (2026-11-25 14:36 KST 다시 잼 — 11/25 배포된 도장 도구(stamp-image.js?v=ca62f576: 원본에서 도장 둘레 다시 잘라 처리·빨강 없으면 사진 색으로)로. 11/24 18:51 첫 측정값은 scratchpad blog99/99/exp/old1124. 실제 https://pdfslimio.com/ko/stamp-image.html?notrack, playwright-core + Chrome headless, 화면 400×860, scratchpad blog99/99/exp/mk.mjs·run.mjs·results.json, 페이지 오류 0, '오늘 남은 횟수' 20/20 → 14/20, 11/25도 같음) 실험용 가상 사진 2장을 canvas로 직접 만듦: ⓐ 가상 동의서 사진 3024×4032 JPG 2,963,371바이트(2.8MB) — 누런 종이·스탠드 불빛처럼 노란 기운, 왼쪽 아래로 어둡고 왼쪽에 휴대폰 그림자, 가로로 접힌 자국, 검은 인쇄 '개인정보 수집·이용 동의서'·'(가상 예시 · 실험용 사진 · 실제 서식 아님)'·표·'동의자 성명 홍 길 동 (인)', 그 옆에 겹쳐 빨간 원형 '홍길동인'(인주 얼룩) ⓑ 같은 조명·접힌 자국의 흰 종이에 같은 도장을 크게 찍은 사진 3024×4032 JPG 2,894,293바이트(2.8MB). 결과(11/25): ⓐ 선명한 빨강·600px → '600×599px · 63.1 KB · PNG', stamp_600x599.png 64,625바이트, 네 모서리 알파 0, 불투명 21.6% 전부 빨강·검정 0, 인쇄 글씨·표 선·접힌 자국·그늘 안 남음, 다만 테두리 왼쪽에서 인쇄 글씨 '동'과 겹친 자리가 작게 비어 있음(눈으로 확인) / ⓐ 선명한 빨강·1000px → 1000×999, 155.0KB(158,711바이트) (11/24 옛 도구는 752×752) / ⓐ 선명한 빨강·300px → 300×300, 21.2KB(21,687바이트) / ⓐ 사진 색 그대로·600px → 600×576, 195.8KB(200,535바이트), 동의서 글씨·표까지 남음(검정 8,437 vs 빨강 6,634픽셀) / ⓑ 선명한 빨강·600px → 600×600, 52.4KB(53,652바이트), 빈틈 없음 / ⓑ 1000px → 999×1000, 117.5KB(120,294바이트). 모두 네 모서리 투명. 계산: 220ppi에서 지름 15mm = 15÷25.4×220 ≈ 130픽셀, 600px PNG를 15mm로 넣으면 약 1,016ppi
+이미지: word-stamp-hero.jpg(새, 11/25 새 결과 PNG로 다시 만듦 1200×630 67.5KB — 짙은 숲색 #1f3d2b 바탕 + 크림 #f4efe2, 'Microsoft 도움말 기준'·'워드 도장 넣는 방법'·'글자 안 밀리게 텍스트 앞 / 위치 고정하고 PDF로', 오른쪽 '동의서 (가상 예시)' 종이의 '성명 홍 길 동 (인)'에 실험 결과 PNG(ⓑ 600px)를 얹음, '가상 예시 · 설명용 그림', 워드 화면·로고 없음), word-stamp-layout-ko.jpg(새, 1200×578 94.3KB — 크림 바탕 3칸: 텍스트 줄 안 '✕ 줄이 벌어져요' / 텍스트 앞 '○ (인) 위에 얹혀요' / 텍스트 뒤 '△ 선택 어려움', '설명용으로 그린 그림 (워드 화면 아님)'), word-stamp-tool-ko.jpg(새, 11/25 다시 만듦 1200×781 133.2KB — 가상 동의서 사진 일부 → 체크무늬 위 결과 PNG, '사진 2.8MB'·'600×599 · 63.1KB'·'인쇄 글씨 · 접힌 자국 · 그늘은 지워짐'). 중요 글자 44px 이상(부제·설명 줄만 22~30px), 짧은 줄 6줄 이하, 얼굴 없음. 그림 HTML: scratchpad blog99/99/cards
+예약: 2026-11-27(금) 13:00 — 사장님이 ondine 창에서 예약 승인(11/25), 예약은 ondine이 sched_run으로
 붙이는 법: IMG 표시 자리에서 끊어 붙이고 편집기 '사진'으로 올림. IMG 바로 앞에는 소제목(h2)을 두지 않음. 그림 버튼·CTA 상자 없이 본문 글자 링크 3개: SlimIO(pdfslimio.com) 도장 이미지 만들기(https://pdfslimio.com/ko/stamp-image.html), #12 PDF에 도장·직인 넣는 법(https://blog.naver.com/todayz777/224450518161), #17 서명 이미지 만들기(https://blog.naver.com/todayz777/224453767279)
 -->
 
@@ -142,12 +142,12 @@
 
 <table>
   <tr><th>사진 · 설정</th><th>결과</th><th>용량</th></tr>
-  <tr><td>동의서 위 도장 · 600px</td><td>600×600</td><td>85.8KB</td></tr>
-  <tr><td>동의서 위 도장 · 1000px</td><td>752×752</td><td>108.2KB</td></tr>
-  <tr><td>동의서 위 도장 · 300px</td><td>300×300</td><td>23.1KB</td></tr>
+  <tr><td>동의서 위 도장 · 600px</td><td>600×599</td><td>63.1KB</td></tr>
+  <tr><td>동의서 위 도장 · 1000px</td><td>1000×999</td><td>155.0KB</td></tr>
+  <tr><td>동의서 위 도장 · 300px</td><td>300×300</td><td>21.2KB</td></tr>
   <tr><td>같은 사진 · 사진 색 그대로</td><td>600×576, 글씨·표 남음</td><td>195.8KB</td></tr>
-  <tr><td>흰 종이에 크게 찍은 도장 · 600px</td><td>600×600</td><td>58.0KB</td></tr>
-  <tr><td>흰 종이에 크게 찍은 도장 · 1000px</td><td>1000×1000</td><td>156.1KB</td></tr>
+  <tr><td>흰 종이에 크게 찍은 도장 · 600px</td><td>600×600</td><td>52.4KB</td></tr>
+  <tr><td>흰 종이에 크게 찍은 도장 · 1000px</td><td>999×1000</td><td>117.5KB</td></tr>
 </table>
 
 <p>'선명한 빨강'은 인쇄 글씨, 표 선, 그늘을 지웠어요. 접힌 자국도 <b>남지 않았어요</b>.</p>
@@ -160,11 +160,11 @@
 
 <p>흰 종이에 따로 찍은 사진에는 이런 빈틈이 없었어요.</p>
 
-<p>1000px을 골랐는데 752×752가 나왔어요. 사진 속 도장이 작아서 도구가 <b>2배</b>까지만 키웠기 때문이에요.</p>
+<p>1000px을 고르면 두 사진 모두 <b>1000픽셀 안팎</b>(1000×999, 999×1000)으로 나왔어요. 휴대폰 사진 한 장이면 도장이 작게 찍혀도 점이 넉넉했어요.</p>
 
-<p>흰 종이에 크게 찍은 사진은 1000×1000이 그대로 나왔어요.</p>
+<p>그러니 도장 PNG를 새로 뜬다면 <b>빈 흰 종이</b>에 찍은 걸 찍으세요. 인쇄 글씨와 겹칠 일이 없어요.</p>
 
-<p>그러니 도장 PNG를 새로 뜬다면 <b>빈 흰 종이</b>에 찍고, 휴대폰을 가까이 대서 찍으세요. 파란·검은 도장이라면 인주 색을 '사진 색 그대로'로 고르면 돼요.</p>
+<p>파란·검은 도장이라면 인주 색을 '사진 색 그대로'로 고르면 돼요. '선명한 빨강'인 채로 눌러도 빨간 인주가 안 보이면 도구가 알아서 사진 색으로 만들고, 결과 밑에 알려 줘요.</p>
 
 <p>🔴 도장이 아예 없다면 같은 페이지의 '🔴 이름 도장 만들기' 탭을 쓰면 돼요. <b>본인 이름</b>으로 원형·사각 도장을 만들어요.</p>
 
